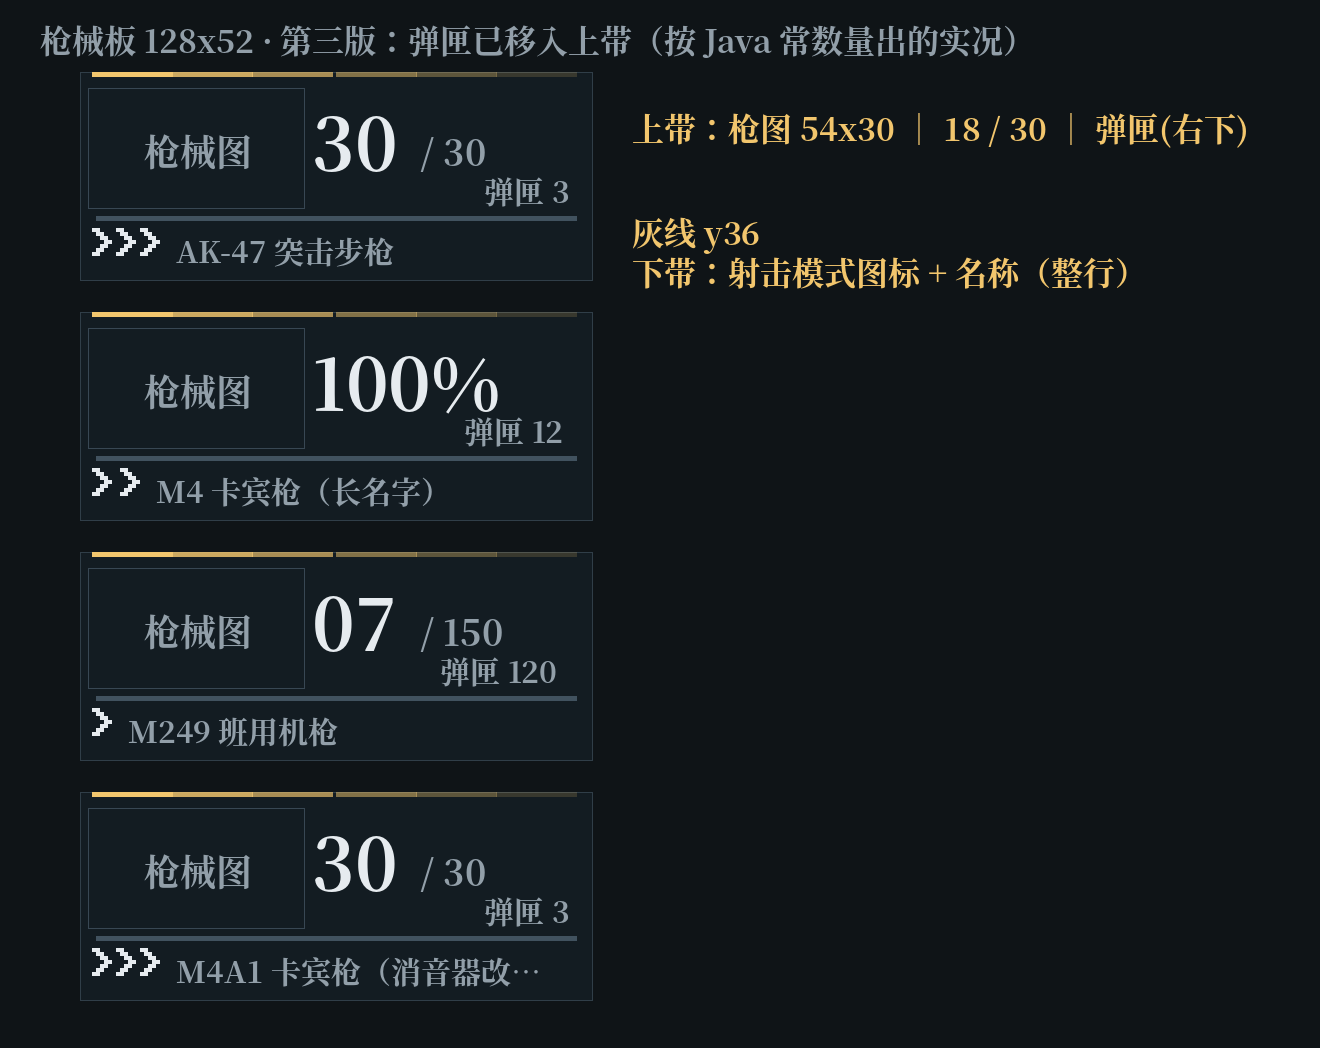
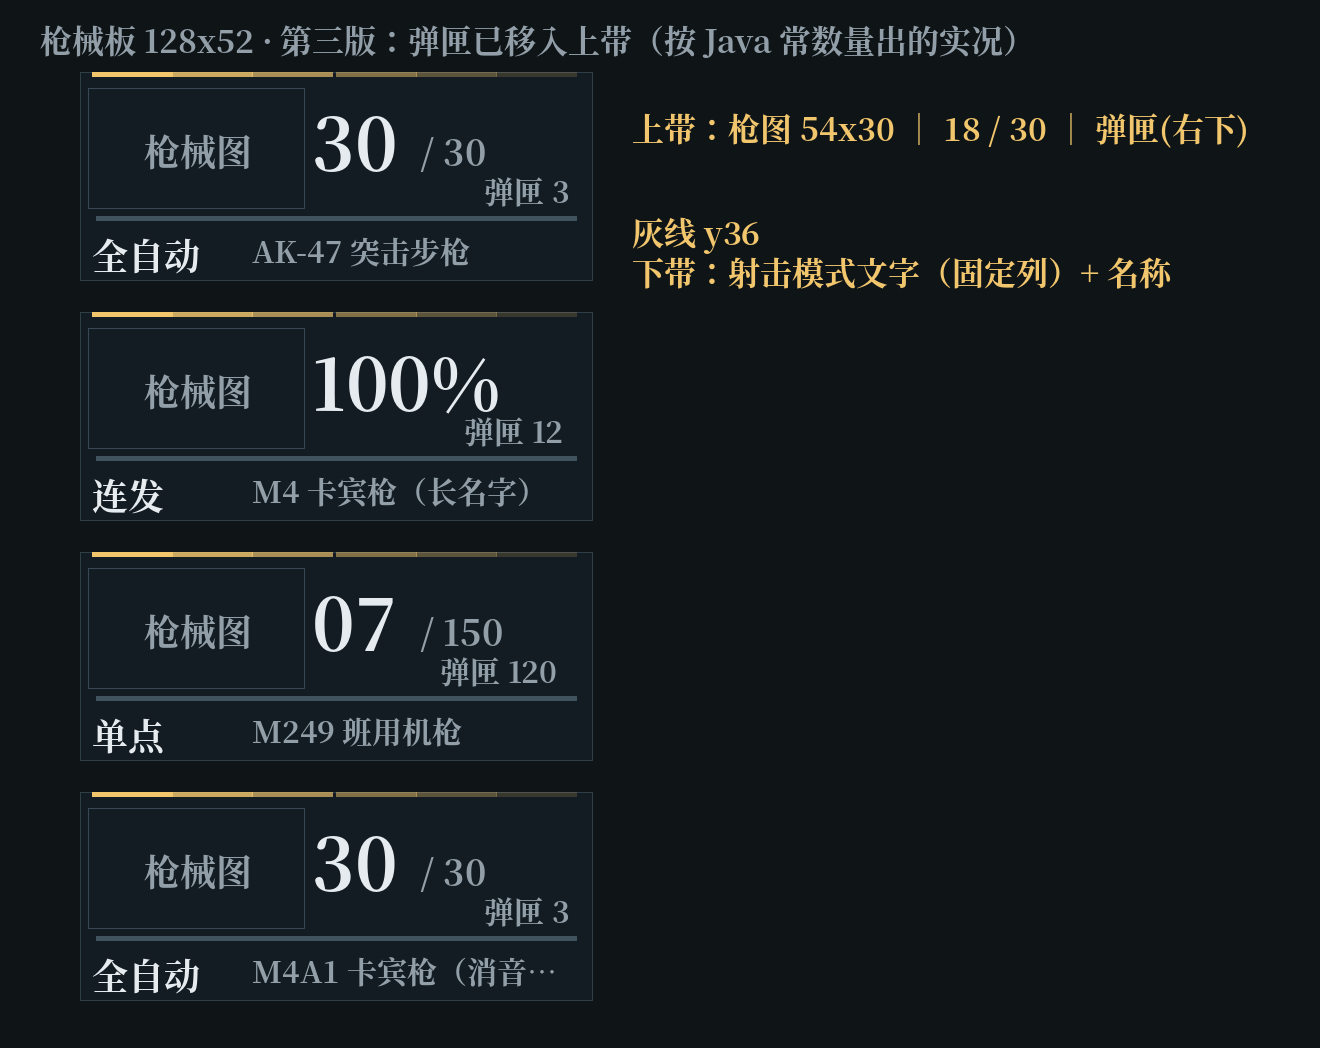
ui: label the fire mode in text and give it a fixed column
The pack art is not sharp at this size and the hand-drawn pictograms were not
wanted, so the mode is localised text now: 全自动 / 单点 / 连发 (AUTO / SEMI /
BURST), reloading keeps its own word, energy stays FE.

The word lives in a reserved 36px column that fits both 全自动 (27px) and the
English RELOAD (36px), and the gun name is placed from that column width instead
of from the measured word. Switching modes, reloading or a shorter label can no
longer move the name. TaczMonitorHud.mode() and its filtering helper are gone.

diff --git a/src/main/java/dev/felix/hostilehumans/monitor/client/MonitorGunHud.java b/src/main/java/dev/felix/hostilehumans/monitor/client/MonitorGunHud.java
@@ -14,6 +14,8 @@ import java.util.Locale;
 
 /** Session-owned read-only telemetry. Never borrows the real player's inventory or upstream HUD caches. */
 public final class MonitorGunHud {
+    /** Reserved width of the fire-mode word; wide enough for "全自动" and "RELOAD". */
+    private static final int MODE_SLOT = 36;
     private static MonitorWeaponSnapshot snapshot;
     private MonitorGunHud() {}
     public static Human viewed() {
@@ -51,32 +53,16 @@ public final class MonitorGunHud {
         return cut + ellipsis;
     }
 
-    /**
-     * Rounds-per-trigger pictogram: one to three right chevrons drawn from 1px strips, the same
-     * "speed" language as a fast-forward mark. One for single, two for burst, three for automatic.
-     * Pack art is deliberately not used - the native fire-mode texture could not be shown crisply at
-     * this size, and blocks on their own read as placeholders rather than as an indicator.
-     */
-    private static int modeIcon(GuiGraphics g,String mode,int x,int y,int rowHeight,UiTheme theme) {
+    /** Localised fire-mode word; unknown modes keep the raw packet value. */
+    private static String modeLabel(String mode) {
         String kind=mode==null?"":mode.toUpperCase(Locale.ROOT);
-        int arrows=switch(kind) {
-            case "AUTO" -> 3;
-            case "BURST" -> 2;
-            case "SEMI", "SINGLE" -> 1;
-            default -> 0;
+        String key=switch(kind) {
+            case "AUTO" -> "human_monitor.gun.mode.auto";
+            case "BURST" -> "human_monitor.gun.mode.burst";
+            case "SEMI", "SINGLE" -> "human_monitor.gun.mode.semi";
+            default -> "";
         };
-        if(arrows==0)return 0;
-        int height=7, stroke=2, gap=arrows>=3?1:2, chevronW=height/2+stroke;
-        int width=arrows*chevronW+(arrows-1)*gap;
-        int top=y+Math.max(0,(rowHeight-height)/2);
-        for(int arrow=0;arrow<arrows;arrow++) {
-            int originX=x+arrow*(chevronW+gap);
-            for(int row=0;row<height;row++) {
-                int offset=height/2-Math.abs(row-height/2);
-                UiDraw.rect(g,originX+offset,top+row,stroke,1,theme.text());
-            }
-        }
-        return width;
+        return key.isEmpty()?(mode==null?"":mode):Component.translatable(key).getString();
     }
 
     /** Keeps the tail of a right aligned label so a clipped "弹匣 120" still shows the count. */
@@ -150,20 +136,12 @@ public final class MonitorGunHud {
         g.pose().pushPose();try {g.pose().translate(columnRight-reserveWidth,y+24,0);g.pose().scale(reserveScale,reserveScale,1);g.drawString(font,reserveText,0,0,theme.muted(),false);}
         finally{g.pose().popPose();}
         UiDraw.ruleFade(g,x+4,y+36,pw-8,theme.edge());
-        // Caption row: fire mode, then the gun name across the rest of the width.
-        String mode=value.reloading()?Component.translatable("human_monitor.gun.reloading").getString():data.energy()?"FE":data.mode();
-        // Prefer the pack's own mark; the chevron pictogram is only a fallback when it is missing.
-        int modeWidth=0;
-        if(!value.reloading() && data.backend().equals("tacz"))
-            modeWidth=dev.felix.hostilehumans.client.ui.gun.TaczMonitorHud.mode(g,data.mode(),x+3,y+37,12);
-        if(modeWidth<=0 && !value.reloading())
-            modeWidth=modeIcon(g,data.mode(),x+3,y+37,12,theme);
-        if(modeWidth<=0) {
-            String shown=font.plainSubstrByWidth(mode,26);
-            g.drawString(font,shown,x+3,y+39,theme.text(),false);
-            modeWidth=Math.max(18,font.width(shown));
-        }
-        int nameX=x+3+modeWidth+4;
+        // Caption row: the fire mode is a localised word in a fixed-width slot, so the name below
+        // never shifts when the mode changes or the weapon starts reloading.
+        String mode=value.reloading()?Component.translatable("human_monitor.gun.reloading").getString()
+                :data.energy()?"FE":modeLabel(data.mode());
+        g.drawString(font,font.plainSubstrByWidth(mode,MODE_SLOT),x+3,y+39,theme.text(),false);
+        int nameX=x+3+MODE_SLOT+4;
         int nameRoom=Math.max(20,columnRight-nameX);
         String name=fitWithEllipsis(font,held.getHoverName().getString(),(int)(nameRoom/.85F));
         g.pose().pushPose();try {g.pose().translate(nameX,y+39,0);g.pose().scale(.85F,.85F,1);g.drawString(font,name,0,0,theme.muted(),false);}

diff --git a/src/main/java/dev/felix/hostilehumans/client/ui/gun/TaczMonitorHud.java b/src/main/java/dev/felix/hostilehumans/client/ui/gun/TaczMonitorHud.java
@@ -61,46 +61,6 @@ public final class TaczMonitorHud {
             return new Size(39,13); // actual native HUD aspect, never stretch a missing pack resource
         }
     }
-    /** Largest width the fire-mode art may occupy in the caption row. */
-    public static final int MODE_WIDTH = 22;
-    private static final java.util.Set<ResourceLocation> SMOOTH = new java.util.HashSet<>();
-
-    /**
-     * Draws the pack's own fire-mode art fitted into {@code MODE_WIDTH x rowHeight}; returns the
-     * width used, or 0 when the texture is unavailable so the caller can fall back.
-     *
-     * <p>Both earlier attempts were wrong for the same reason - the texture is larger than the
-     * 18x10 window it was assumed to be. Declaring 18x10 as the texture size made Minecraft
-     * normalise the UVs against it (the whole image squeezed flat), and drawing at the texture's own
-     * size spilled it across the slab. Now the UVs use the real size, the drawn size is contained in
-     * the row, and the texture is switched to linear filtering once so a large glyph downsamples
-     * smoothly instead of dropping pixels.
-     */
-    public static int mode(GuiGraphics g,String mode,int x,int y,int rowHeight) {
-        String suffix=switch(mode){case "AUTO"->"auto";case "BURST"->"burst";default->"semi";};
-        var texture=new ResourceLocation("tacz","textures/hud/fire_mode_"+suffix+".png");
-        Size size=SIZES.computeIfAbsent(texture,TaczMonitorHud::textureSize);
-        if(size.width()<=0||size.height()<=0||rowHeight<=0)return 0;
-        smooth(texture);
-        var fit=dev.felix.hostilehumans.monitor.client.MonitorIconFit.contain(
-                size.width(),size.height(),MODE_WIDTH,rowHeight);
-        g.pose().pushPose();
-        try {
-            g.pose().translate(x+fit.x(),y+fit.y(),0);
-            g.pose().scale(fit.scale(),fit.scale(),1);
-            g.blit(texture,0,0,0,0,size.width(),size.height(),size.width(),size.height());
-        } finally { g.pose().popPose(); }
-        return Math.min(MODE_WIDTH,Math.round(size.width()*fit.scale()));
-    }
-
-    /** Large pack art is downscaled here; linear filtering keeps it smooth instead of chunky. */
-    private static void smooth(ResourceLocation texture) {
-        if(!SMOOTH.add(texture))return;
-        try {
-            Minecraft.getInstance().getTextureManager().getTexture(texture).setFilter(true,false);
-        } catch(RuntimeException|LinkageError ignored) { }
-    }
-
     private static boolean observing(LivingEntity attacker) {return attacker!=null && attacker==MonitorGunHud.viewed();}
     private static void hurt(EntityHurtByGunEvent.Post event) {
         if(event.getLogicalSide().isClient() && observing(event.getAttacker()))feedback(event.getGunDisplayId(),event.getGunId(),event.isHeadShot(),false);

diff --git a/maintenance-tools/ui-preview/weapon_slab.py b/maintenance-tools/ui-preview/weapon_slab.py
@@ -82,21 +82,12 @@ def slab(d, ox, oy, name, amount, reserve, mode_label, capacity):
     # hairline
     d.rectangle([(x + 4) * S, (y + 36) * S, (x + PW - 4) * S, (y + 37) * S], fill=rgba(EDGE, 1))
     # caption row: native mode art (18x12 box here), then the name
-    # Rounds-per-trigger chevrons, same primitives as MonitorGunHud.modeIcon().
-    kind = mode_label.upper()
-    arrows = 3 if kind == "AUTO" else 2 if kind == "BURST" else 1
-    height, stroke = 7, 2
-    gap = 1 if arrows >= 3 else 2
-    chev_w = height // 2 + stroke
-    top = y + 37 + max(0, (12 - height) // 2)
-    for a in range(arrows):
-        ox = x + 3 + a * (chev_w + gap)
-        for row in range(height):
-            off = height // 2 - abs(row - height // 2)
-            d.rectangle([(ox + off) * S, (top + row) * S,
-                         (ox + off + stroke) * S - 1, (top + row) * S + S - 1], fill=rgba(TEXT, 1))
-    mode_w = arrows * chev_w + (arrows - 1) * gap
-    name_x = x + 3 + mode_w + 4
+    # Fire mode is a localised word in a fixed 36px slot; the name column never moves.
+    MODE_SLOT = 36
+    mode_words = {"AUTO": "全自动", "SEMI": "单点", "BURST": "连发", "RELOAD": "装填中"}
+    mode_text = mode_words.get(mode_label.upper(), mode_label)
+    d.text(((x + 3) * S, (y + 39) * S), clip(mode_text, MODE_SLOT), font=FONT, fill=rgba(TEXT, 1))
+    name_x = x + 3 + MODE_SLOT + 4
     room = max(20, col_right - name_x)
     small = ImageFont.truetype("/usr/share/fonts/opentype/noto/NotoSerifCJK-Bold.ttc", int(9 * S * .85))
     d.text((name_x * S, (y + 39) * S), fit_ellipsis(name, int(room / .85)), font=small, fill=rgba(MUTED, 1))
@@ -110,7 +101,7 @@ ann = ImageFont.truetype("/usr/share/fonts/opentype/noto/NotoSerifCJK-Bold.ttc",
 note = lambda ty, text: d.text((158 * S, ty * S), text, font=ann, fill=rgba(ACCENT, 1))
 note(26, "上带：枪图 54x30 ｜ 18 / 30 ｜ 弹匣(右下)")
 note(52, "灰线 y36")
-note(62, "下带：射击模式图标 + 名称（整行）")
+note(62, "下带：射击模式文字（固定列）+ 名称")
 slab(d, 20, 78, "M4 卡宾枪（长名字）", "100%", "弹匣 12", "BURST", "")
 slab(d, 20, 138, "M249 班用机枪", "07", "弹匣 120", "SEMI", "/ 150")
 slab(d, 20, 198, "M4A1 卡宾枪（消音器改装型）", "30", "弹匣 3", "AUTO", "/ 30")

diff --git a/docs/UI_FRAME.md b/docs/UI_FRAME.md
@@ -154,4 +154,6 @@
 
 板子高度 46 → 52 是这次唯一的尺寸变化：要让弹匣数独占一行又不压到名字，只能多出这一行的高度。
 
-**射击模式图标**：回到使用 TaCZ 原生贴图，但这次是"按真实尺寸正确绘制"——UV 用贴图自身宽高（旧代码把 18×10 写死成贴图尺寸，MC 据此归一化 UV，整张图被压扁），绘制尺寸用 `MonitorIconFit.contain` 收进 22×12 的格子（上一版按原生尺寸 1:1 绘制，贴图比板子还大，直接盖满面板），并对这三张贴图开启一次线性过滤，让大幅字形缩小时平滑而不是掉像素。贴图缺失时才回退到自绘的 1/2/3 箭头图示；装填中或无法识别的模式仍显示文字。
+**射击模式**：不再渲染任何图标（原生贴图在本尺寸下无法清晰呈现，自绘图形也不理想），改为**本地化文字**：`human_monitor.gun.mode.auto/semi/burst` → 全自动 / 单点 / 连发（英文 AUTO / SEMI / BURST），装填中沿用 `human_monitor.gun.reloading`，能量武器仍是 FE。
+
+文字放在**固定 36px 的列**里（足够容下"全自动"27px 与英文 "RELOAD" 36px），超出按像素裁剪；枪械名称的起始 x 直接由这一列宽算出（`x+3+36+4`），因此切换射击模式、进入装填、或模式词变长变短，名称都**不会**左右跳动。名称因此比之前窄 18px 左右，仍在 81px 左右、0.85 倍下约 10 个汉字。
